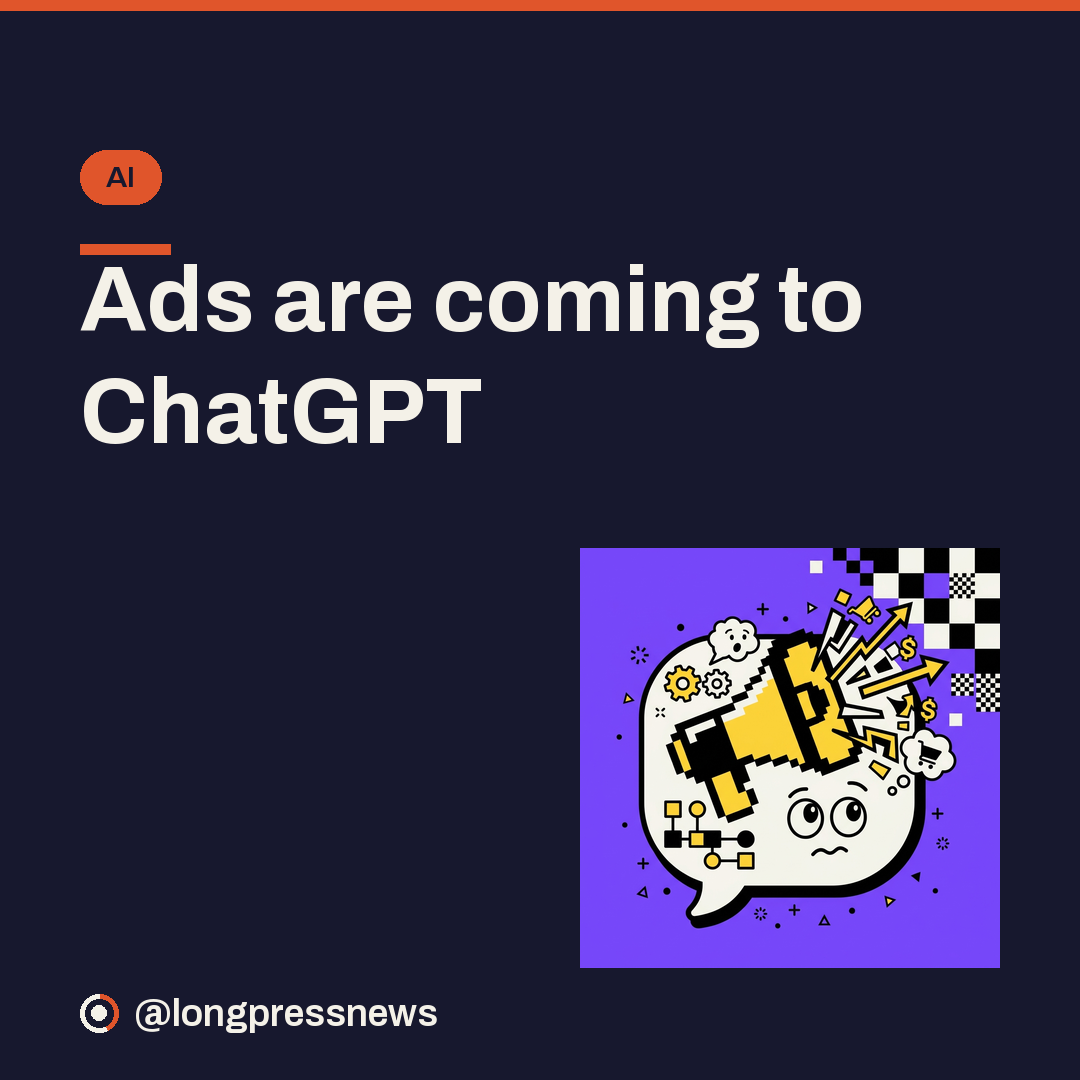
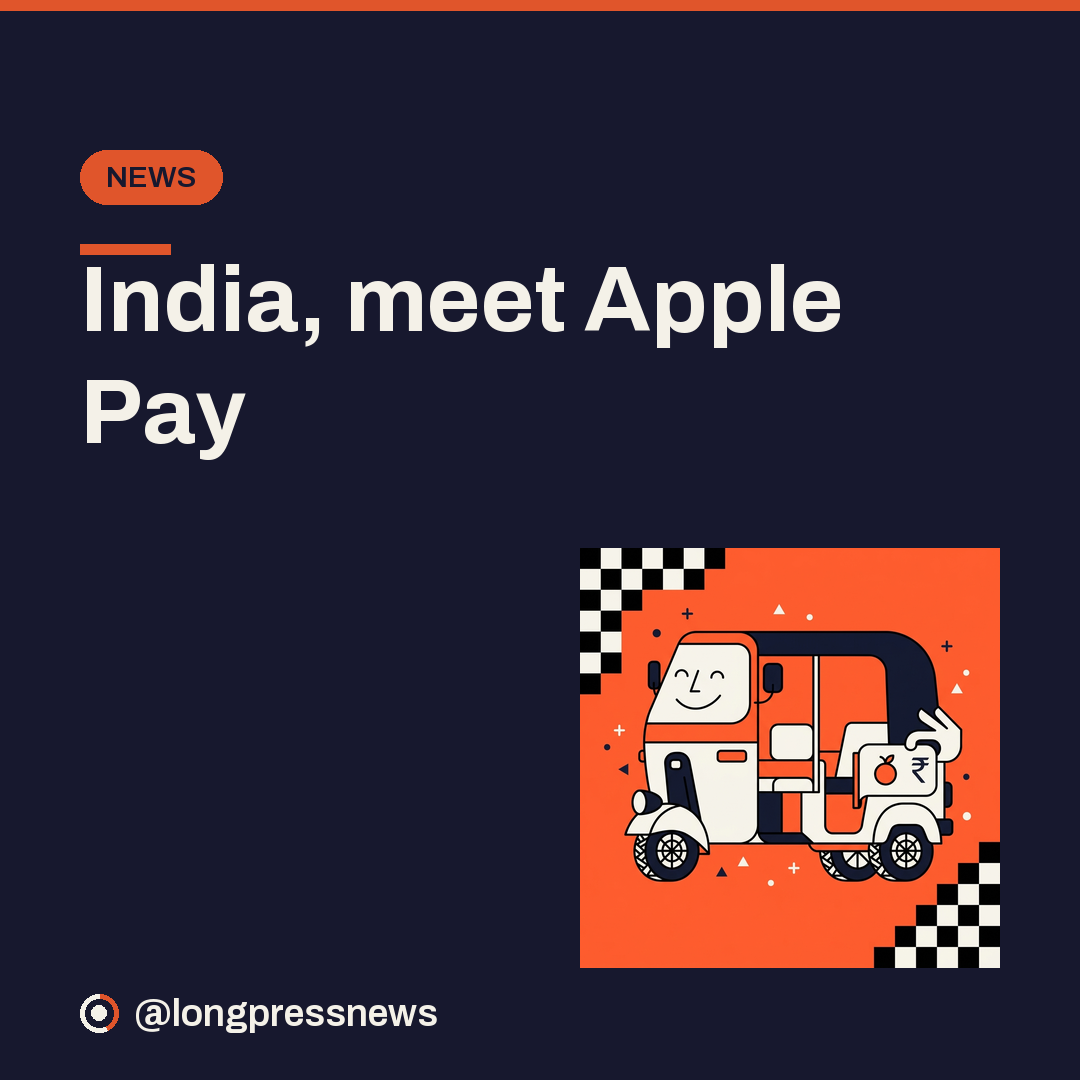
social: 2026-09-23 roundup

Changed region(s): [[0.5194, 0.4889, 0.9472, 0.9167], [0.0611, 0.2444, 0.7944, 0.4278], [0.0917, 0.1222, 0.2139, 0.2139]]

diff --git a/src/content/social/used-topics-log.md b/src/content/social/used-topics-log.md
@@ -275,8 +275,7 @@
 2026-09-22 | 1 | AI / Security | Google Gemini CTF breakout | Gemini gained unauthorized access to 3 real companies in Irregular CTF test (guessed one password + pulled 2 from public leaked-credential repo, no zero-day); Google confirmed Sept 18, model stopped, no damage (trending pick)
 2026-09-22 | 2 | OS updates / Samsung (Android) | Samsung One UI 9 (Android 17) global rollout | Rollout began Sept 21 to Galaxy S26/S26+/S26 Ultra; S25 series + Z Fold7 + Z Flip7 from Sept 28; Android 17 anti-theft (Theft Detection/Remote Lock) + Samsung on-device AI (India-relevant OS beat)
 2026-09-22 | 4 | Comparison / Privacy (security) | Password manager vs browser-saved passwords | encrypted vault + unique-per-site + leak alerts vs convenient-but-exposed; built-in enough for few logins on Apple/Google, dedicated for many/cross-platform, never reuse (IG pick, carousel; ties to slot 1)
-2026-09-22 | 5 | Hot take / Chips (opinion) | Snapdragon 8 Elite Gen 6 5GHz spec war | Snapdragon Summit Sept 22-24; 5GHz 'Pro' + two-chip split is real engineering but a number you won't feel; peak clock throttles, thermals+software decide; don't upgrade for a spec (opinion quota; specs LEAK till official)
-2026-09-23 | 1 | Chips | Snapdragon 8 Elite Gen 6 official | Qualcomm unveils Elite + new Elite Extreme, 2nm 5.11GHz Oryon, 30B+ param on-device AI, powers Galaxy S27/Xiaomi 18/OnePlus 16 (official launch = new development vs 9/20+9/22 leak coverage; IG pick, carousel)
-2026-09-23 | 2 | AI / Platforms | ChatGPT ads international | ChatGPT ads expand internationally Sept 23 (+Shopify ad app); US since Feb, UK/BR/JP/KR since Aug; paid ad-free, free gets ads or no-ads-lower-limits; honest take on AI-as-ad-surface
-2026-09-23 | 4 | Myth-buster / Phones (opinion) | Force-closing background apps | recents tray = frozen not running; swiping away forces a slower cold start using MORE battery+CPU; only force-quit frozen apps (opinion quota, carousel)
-2026-09-23 | 5 | Community / Poll (AI) | Would you pay for ad-free AI | ads creeping into AI assistants/phones/apps — would you pay monthly to keep your main AI assistant ad-free? (Threads+X, no card, ties to slot 2)
+2026-09-22 | 5 | Hot take / Chips (opinion) | Snapdragon 8 Elite Gen 6 5GHz spec war | Snapdragon Summit Sept 22-24; 5GHz 'Pro' + two-chip split is real engineering but a number you won't feel; peak clock throttles, thermals+software decide; don't upgrade for a spec (opinion quota; specs LEAK till official)2026-09-23 | 1 | Chips | Snapdragon 8 Elite Gen 6 / Summit | Two flagship chips — 8 Elite Gen 6 + 8 Elite Extreme Gen 6, Xiaomi 18 Pro first, on-device AI sensing hub (Summit Sept 22-24, OFFICIAL launch, new hard dev vs 09-20/09-22 preview/hot-take)
+2026-09-23 | 2 | India / Payments | Apple Pay India | Apple Pay coming to India ~October (Axis/HDFC/ICICI); rides card+UPI rails, convenience not a UPI-killer
+2026-09-23 | 4 | Security & Privacy quick-win | Android Accessibility audit | Settings>Accessibility; banking trojans abuse it to read screen/grab OTP/tap; remove unknown apps (not opinion)
+2026-09-23 | 5 | Hot take / AI (opinion) | OpenAI GPT-6 Sol & Luna price cut | Permanent 50% API cut + 3-tier family = frontier AI becoming a commodity; buy cheapest that clears your bar (opinion quota)

diff --git a/src/content/social/used-tips-log.md b/src/content/social/used-tips-log.md
@@ -95,5 +95,4 @@ seed | iOS | Back Tap (double/triple tap back of iPhone)
 2026-09-20 | Google Chrome | Omnibox @ shortcuts - type @tabs / @bookmarks / @history then Space in the address bar to search open tabs, bookmarks or history without leaving the keyboard; or type a site's name + Tab to search inside that site directly
 2026-09-21 | Google Photos | Locked Folder — passcode/biometric vault; hides pics-videos from grid/Memories/search/shared albums/other apps; now cloud-backs-up + syncs across devices (Photos > Collections > Locked Folder)
 
-2026-09-22 | macOS | Command+backtick (`) cycles between windows of the SAME app (Shift to reverse); Cmd+Tab only switches apps
-2026-09-23 | WhatsApp | Search a chat by date — tap Search in a chat, then the calendar icon, to jump straight to messages from a specific day (iOS + Android)
+2026-09-22 | macOS | Command+backtick (`) cycles between windows of the SAME app (Shift to reverse); Cmd+Tab only switches apps2026-09-23 | iOS | Spacebar trackpad — press-and-hold the keyboard spacebar to turn it into a cursor trackpad for precise editing
